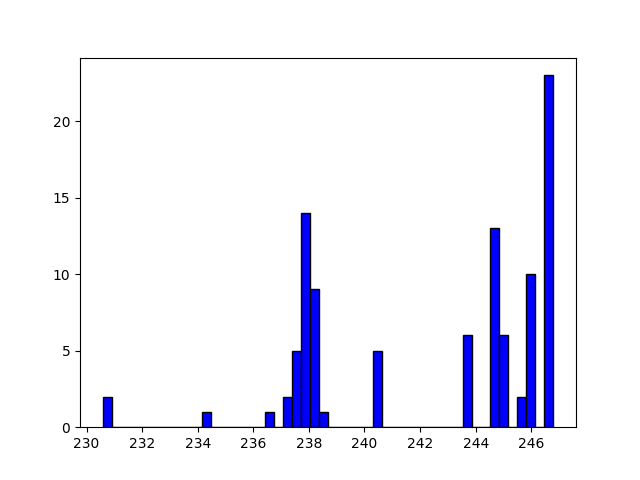
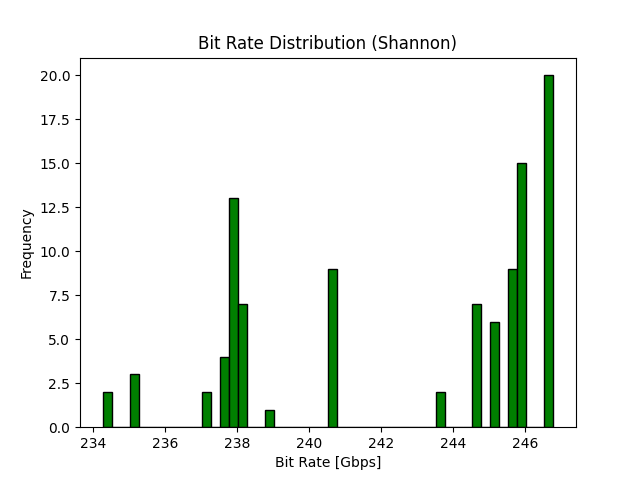
lab8: plots updated

diff --git a/Tasks/main.py b/Tasks/main.py
@@ -170,62 +170,95 @@ def main():
     latency_array3 = np.array(latency_no_zero3)
     bit_rate_array3 = np.array(bit_rate_no_zero3)
 
+    file = open(root / 'Results/Lab8/bit_rates_capacities_and_blocking_events.txt', "w")
+
+    file.write('- Blocking events:\n')
     print('Blocking events for full fixed rate = ', number_of_blocks_full_fixed)
+    file.write('\tBlocking events (Fixed-Rate) = ' + str(number_of_blocks_full_fixed) + '\n')
     print('Blocking events for full flex rate = ', number_of_blocks_full_flex)
+    file.write('\tBlocking events (Flex-Rate) = ' + str(number_of_blocks_full_flex) + '\n')
     print('Blocking events for full shannon = ', number_of_blocks_full_shannon)
+    file.write('\tBlocking events (Shannon) = ' + str(number_of_blocks_full_shannon) + '\n\n')
 
-    file = open(root / 'Results/Lab8/bit_rates_and_capacities.txt', "a")
-
+    file.write('- Bit Rate mean:\n')
     bit_rate_mean = np.mean(bit_rate_array)
     bit_rate_mean2 = np.mean(bit_rate_array2)
     bit_rate_mean3 = np.mean(bit_rate_array3)
     print('Bit rate mean for full fixed rate = ', bit_rate_mean, 'Gbps')
-    file.write('Bit rate mean for full fixed rate = ' + str(bit_rate_mean) + ' Gbps\n')
+    file.write('\tBit rate mean for full fixed rate = ' + str(bit_rate_mean) + ' Gbps\n')
     print('Bit rate mean for full flex rate = ', bit_rate_mean2, 'Gbps')
-    file.write('Bit rate mean for full flex rate = ' + str(bit_rate_mean2) + ' Gbps\n')
+    file.write('\tBit rate mean for full flex rate = ' + str(bit_rate_mean2) + ' Gbps\n')
     print('Bit rate mean for full shannon = ', bit_rate_mean3, 'Gbps')
-    file.write('Bit rate mean for full shannon = ' + str(bit_rate_mean3) + ' Gbps\n\n')
+    file.write('\tBit rate mean for full shannon = ' + str(bit_rate_mean3) + ' Gbps\n\n')
 
+    file.write('- Capacity:\n')
     capacity = np.sum(bit_rate_array)
     capacity2 = np.sum(bit_rate_array2)
     capacity3 = np.sum(bit_rate_array3)
     print('Capacity for full fixed rate = ', capacity, 'Gbps')
-    file.write('Capacity for full fixed rate = ' + str(capacity) + ' Gbps\n')
+    file.write('\tCapacity for full fixed rate = ' + str(capacity) + ' Gbps\n')
     print('Capacity mean for full flex rate = ', capacity2, 'Gbps')
-    file.write('Capacity for full flex rate = ' + str(capacity2) + ' Gbps\n')
+    file.write('\tCapacity for full flex rate = ' + str(capacity2) + ' Gbps\n')
     print('Capacity mean for full shannon = ', capacity3, 'Gbps')
-    file.write('Capacity for full shannon = ' + str(capacity3) + ' Gbps\n')
+    file.write('\tCapacity for full shannon = ' + str(capacity3) + ' Gbps\n')
     file.close()
 
     # Result plotting
 
     plt.hist(snr_array, color='blue', edgecolor='black', bins=50)
+    plt.xlabel('SNR [dB]')
+    plt.ylabel('Frequency')
+    plt.title('SNR Distribution (Fixed-Rate)')
     plt.savefig(root / 'Results/Lab8/snr_distribution_fixed.png')
     plt.show()
-    plt.hist(latency_array, color='blue', edgecolor='black', bins=50)
+    plt.hist(latency_array*1e3, color='red', edgecolor='black', bins=50)
+    plt.xlabel('Latency [ms]')
+    plt.ylabel('Frequency')
+    plt.title('Latency Distribution (Fixed-Rate)')
     plt.savefig(root / 'Results/Lab8/latency_distribution_fixed.png')
     plt.show()
-    plt.hist(bit_rate_array, color='blue', edgecolor='black', bins=50)
+    plt.hist(bit_rate_array, color='green', edgecolor='black', bins=50)
+    plt.xlabel('Bit Rate [Gbps]')
+    plt.ylabel('Frequency')
+    plt.title('Bit Rate Distribution (Fixed-Rate)')
     plt.savefig(root / 'Results/Lab8/bit_rate_distribution_fixed.png')
     plt.show()
 
     plt.hist(snr_array2, color='blue', edgecolor='black', bins=50)
+    plt.xlabel('SNR [dB]')
+    plt.ylabel('Frequency')
+    plt.title('SNR Distribution (Flex-Rate)')
     plt.savefig(root / 'Results/Lab8/snr_distribution_flex.png')
     plt.show()
-    plt.hist(latency_array2, color='blue', edgecolor='black', bins=50)
+    plt.hist(latency_array2*1e3, color='red', edgecolor='black', bins=50)
+    plt.xlabel('Latency [ms]')
+    plt.ylabel('Frequency')
+    plt.title('Latency Distribution (Flex-Rate)')
     plt.savefig(root / 'Results/Lab8/latency_distribution_flex.png')
     plt.show()
-    plt.hist(bit_rate_array2, color='blue', edgecolor='black', bins=50)
+    plt.hist(bit_rate_array2, color='green', edgecolor='black', bins=50)
+    plt.xlabel('Bit Rate [Gbps]')
+    plt.ylabel('Frequency')
+    plt.title('Bit Rate Distribution (Flex-Rate)')
     plt.savefig(root / 'Results/Lab8/bit_rate_distribution_flex.png')
     plt.show()
 
     plt.hist(snr_array3, color='blue', edgecolor='black', bins=50)
+    plt.xlabel('SNR [dB]')
+    plt.ylabel('Frequency')
+    plt.title('SNR Distribution (Shannon)')
     plt.savefig(root / 'Results/Lab8/snr_distribution_shannon.png')
     plt.show()
-    plt.hist(latency_array3, color='blue', edgecolor='black', bins=50)
+    plt.hist(latency_array3*1e3, color='red', edgecolor='black', bins=50)
+    plt.xlabel('Latency [ms]')
+    plt.ylabel('Frequency')
+    plt.title('Latency Distribution (Shannon)')
     plt.savefig(root / 'Results/Lab8/latency_distribution_shannon.png')
     plt.show()
-    plt.hist(bit_rate_array3, color='blue', edgecolor='black', bins=50)
+    plt.hist(bit_rate_array3, color='green', edgecolor='black', bins=50)
+    plt.xlabel('Bit Rate [Gbps]')
+    plt.ylabel('Frequency')
+    plt.title('Bit Rate Distribution (Shannon)')
     plt.savefig(root / 'Results/Lab8/bit_rate_distribution_shannon.png')
     plt.show()
 
